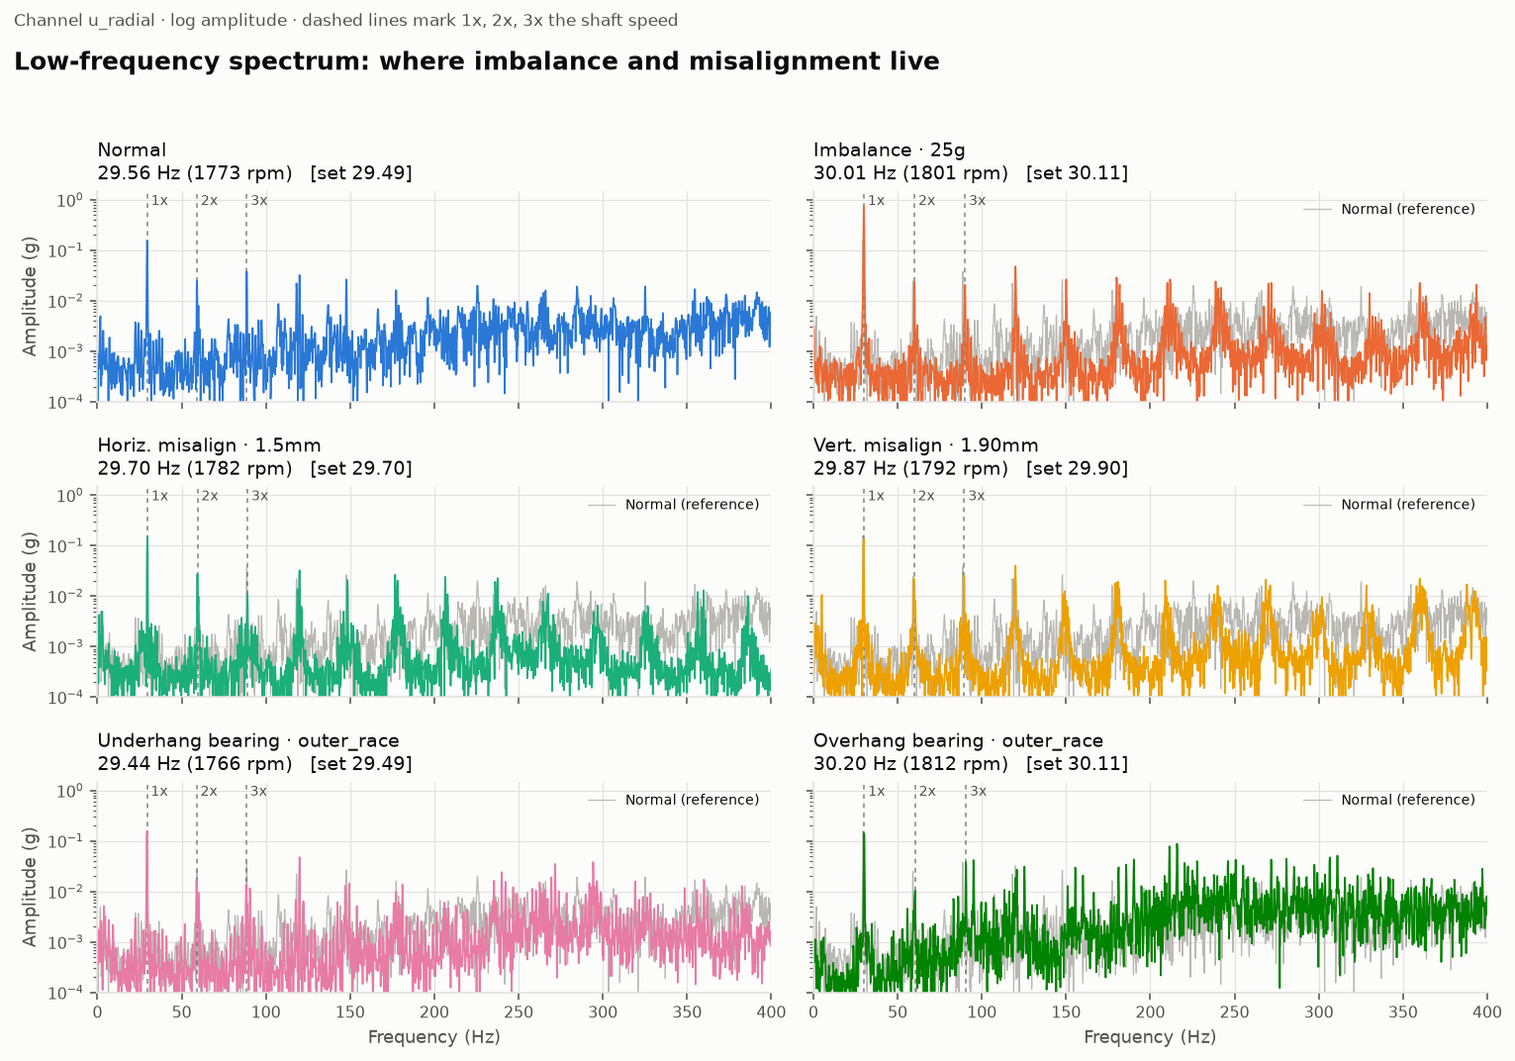
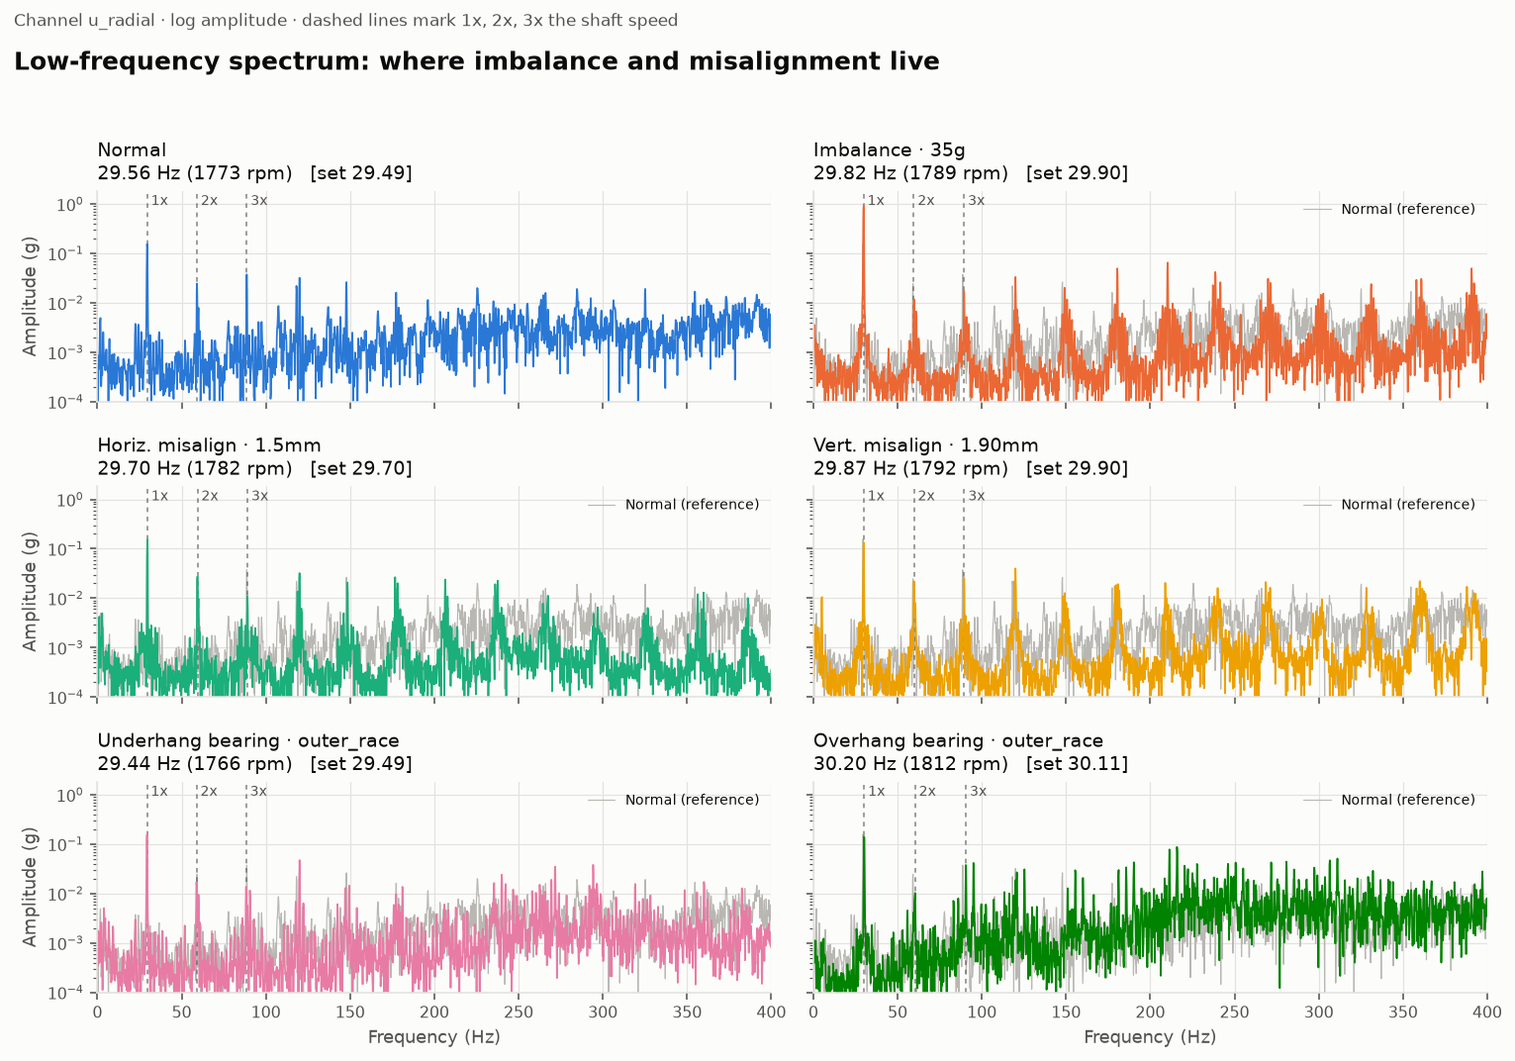
fix(eda): pin the imbalance mass and correct the misalignment claim
## มวลถ่วงของ imbalance ในรูป 01-02 ไม่คงที่

รูป 01 กับ 02 เลือกไฟล์ imbalance จากทุกมวลโดยดูแค่ว่าความเร็วใกล้เป้าหมาย
ที่สุด ทำให้ไฟล์ที่ได้เปลี่ยนไปมาทุกครั้งที่เกณฑ์การจับคู่ความเร็วขยับ
เคยได้ 35g แล้วเป็น 20g แล้วเป็น 25g ขณะที่ README ยังเขียน 35 g ค้างไว้

ตรึงไว้ที่ IMBALANCE_MASS_G = 35 ซึ่งเป็นมวลสูงสุดและเป็นเคสที่เห็นผลชัด
ที่สุดในสัญญาณดิบ

## ข้ออ้างเรื่อง misalignment ใน README ผิด

README เขียนว่า misalignment ทำให้ 2x กับ 3x โผล่ชัดขึ้น ตรวจด้วยตัวเลขจริง
จากคลาสละ 10 ไฟล์แล้วไม่เป็นแบบนั้น บนช่อง u_radial ทุกค่าอยู่ที่ 0.8-1.0
เท่าของ normal คือแยกไม่ได้เลย

สาเหตุคือใช้ช่องผิด เพลาที่เยื้องศูนย์ถูกดัดสองครั้งต่อรอบ แรงจึงออกมาทาง
แนวสัมผัสของฝั่งปลายเพลา วัดอัตราส่วน 2x/1x บนช่อง o_tang แล้วได้

    imbalance 35 g            0.44  (ลดลง เพราะ 1x พุ่งขึ้น)
    horizontal-misalignment   2.18  (เพิ่มขึ้น)
    vertical-misalignment     5.36  (เพิ่มขึ้นมาก)
    underhang bearing 0 g     1.07
    overhang bearing 0 g      3.01

imbalance กับ misalignment ดันอัตราส่วนนี้ไปคนละทาง จึงแยกสองคลาสนี้ได้ด้วย
feature ตัวเดียว ส่วน overhang bearing ก็ดันขึ้น 3.01 เท่าเหมือนกัน ต้องดูคู่
กับ envelope floor เพื่อแยกออก

พบอีกว่า u_tang เป็นช่องที่ดีที่สุดสำหรับ imbalance (12.06 เท่า) ไม่ใช่
u_radial (7.94 เท่า) ที่ใช้อยู่

## ที่แก้

- IMBALANCE_MASS_G ใน make_eda_report.py แล้วสร้างรูปใหม่
- README: ใส่ตารางตัวเลขจริงแทนคำบรรยายที่กะจากรูป ทั้งรูป 01 และ 02
  พร้อมตารางอัตราส่วน 2x/1x แยกตามช่อง และเตือนว่ารูป 01-05 ใช้ u_radial
[…]

diff --git a/src/viz/make_eda_report.py b/src/viz/make_eda_report.py
@@ -56,6 +56,12 @@ BEARING_MARKS = ["FTF", "BSF", "BPFO"]
 # ใช้เป็นค่าประมาณสำรองเมื่อ tachometer ของไฟล์นั้นวัดไม่ผ่านเกณฑ์
 SLIP_RATIO = 0.9767
 
+# มวลถ่วงของ imbalance ที่ใช้เป็นตัวแทนคลาสในรูปที่ 01, 02
+# ตรึงไว้เพื่อให้รูปซ้ำได้ เลือก 35 g ซึ่งเป็นค่าสูงสุด เพราะเป็นเคสที่เห็นผล
+# ชัดที่สุดในสัญญาณดิบ ข้อควรรู้: กลุ่ม 35 g มีข้อมูลถึงแค่ 56.7 Hz
+# ถ้าสั่ง --target-hz สูงกว่านั้นจะได้ไฟล์ที่ความเร็วห่างจากเป้าหมาย
+IMBALANCE_MASS_G = 35
+
 
 def _rot(row: pd.Series) -> float:
     """ความเร็วรอบที่ควรใช้คำนวณความถี่ความเสียหาย
@@ -82,12 +88,20 @@ def _panel_title(row: pd.Series) -> str:
 
 
 def _select_one_per_class(index: pd.DataFrame, target_hz: float) -> dict[str, pd.Series]:
-    """เลือกไฟล์ตัวแทนคลาสละหนึ่งไฟล์ ที่ความเร็วใกล้เป้าหมายที่สุด"""
+    """เลือกไฟล์ตัวแทนคลาสละหนึ่งไฟล์ ที่ความเร็วใกล้เป้าหมายที่สุด
+
+    **ต้องตรึงมวลถ่วงของ imbalance ไว้ด้วย** ไม่ใช่ปล่อยให้เลือกจากทุกมวล
+    ไม่งั้นไฟล์ที่ถูกเลือกจะเปลี่ยนไปมาทุกครั้งที่เกณฑ์การจับคู่ความเร็วขยับ
+    (เคยได้ 35g แล้วเป็น 20g แล้วเป็น 25g มาแล้ว) ซึ่งทำให้คำอธิบายในรายงาน
+    ไม่ตรงกับรูปโดยไม่มีใครรู้ตัว
+    """
     picks = {}
     for cls in mf.CLASS_ORDER:
         # bearing fault เอาเฉพาะ 0 g เพื่อไม่ให้ imbalance ปนเข้ามา
         mass = 0 if cls in ("underhang", "overhang") else None
         sub = "outer_race" if cls in ("underhang", "overhang") else None
+        if cls == "imbalance":
+            mass = IMBALANCE_MASS_G
         picks[cls] = mf.pick_matched_speed(index, target_hz, cls, subclass=sub, mass_g=mass)
     return picks
 

diff --git a/reports/eda/README.md b/reports/eda/README.md
@@ -22,12 +22,15 @@
 
 จำสี่บรรทัดนี้ได้ก็อ่านกราฟทุกใบในโฟลเดอร์นี้ออก
 
-| ความเสียหาย | ลายเซ็น | เห็นได้จากรูป |
-|---|---|---|
-| **Imbalance** | พีคเดี่ยวสูงที่ **1×** + band kurtosis สูง | 01, 02, 06 |
-| **Misalignment** | **2×, 3×** และฮาร์มอนิกเรียงเป็นชุด | 02 |
-| **Outer race / Ball fault** | **พื้นสัญญาณยกขึ้นทั้งย่าน** + envelope floor สูง | 02, 03, 06 |
-| **Cage fault** | **ยังไม่มีลายเซ็นที่จับได้เลย** | 03, 06 |
+| ความเสียหาย | ลายเซ็น | ช่องที่ควรใช้ | เห็นได้จากรูป |
+|---|---|---|---|
+| **Imbalance** | พีค **1×** สูง 8 เท่า + อัตราส่วน 2×/1× **ลดลง** | `u_tang`, `o_tang` | 01, 02, 06 |
+| **Misalignment** | อัตราส่วน **2×/1× เพิ่มขึ้น 2–5 เท่า** | **`o_tang` เท่านั้น** | ดูตาราง §02 |
+| **Outer race / Ball fault** | **พื้นสัญญาณยกขึ้นทั้งย่าน** + envelope floor สูง | `u_radial`, `o_tang` | 02, 03, 06 |
+| **Cage fault** | **ยังไม่มีลายเซ็นที่จับได้เลย** | — | 03, 06 |
+
+⚠ **ช่องเซ็นเซอร์สำคัญพอๆ กับ feature** กราฟ 01–05 ใช้ `u_radial` ทั้งหมด ซึ่ง
+**มองไม่เห็น misalignment เลย** ต้องดู `o_tang` ถึงจะเห็น ดูตัวเลขในหัวข้อ 02
 
 **กลไกสองแบบที่ต่างกันโดยสิ้นเชิง** ที่ต้องแยกให้ออกคือ
 
@@ -92,12 +95,21 @@
 
 **สิ่งที่เห็น**
 
-| คลาส | ลักษณะ |
-|---|---|
-| Normal | สัญญาณรบกวนสม่ำเสมอ ±1 g มองไม่เห็นคาบชัดเจน |
-| **Imbalance 35 g** | **เห็นคลื่นไซน์ชัดด้วยตาเปล่า** ±2 g คาบราว 33 ms ตรงกับ 30 Hz พอดี |
-| Misalignment ทั้งสองแบบ | แทบทับกับเส้นเทา แยกด้วยตาเปล่าไม่ออก |
-| Bearing fault ทั้งสองฝั่ง | **แทบทับกับเส้นเทาเช่นกัน** |
+| คลาส | ความสูงยอดถึงยอด | ลักษณะ |
+|---|---:|---|
+| Normal | 2.70 g | สัญญาณรบกวนสม่ำเสมอ **มองไม่เห็นคาบเลย** |
+| **Imbalance 35 g** | **4.50 g** | **เห็นคลื่นไซน์ชัดด้วยตาเปล่า** คาบราว 33 ms = 1 รอบการหมุนพอดี |
+| Horiz. misalign 1.5 mm | 2.11 g | แทบทับกับเส้นเทา แยกด้วยตาเปล่าไม่ออก |
+| Vert. misalign 1.90 mm | 3.15 g | แทบทับกับเส้นเทา แยกด้วยตาเปล่าไม่ออก |
+| Underhang outer race 0 g | 3.27 g | ทับกับเส้นเทา แต่มี**หนามแหลมโดดๆ** แทงขึ้นเป็นครั้งคราว |
+| Overhang outer race 0 g | 2.79 g | ทับกับเส้นเทา แต่มี**หนามแหลมโดดๆ** เช่นกัน |
+
+หนามแหลมที่โผล่ในสองแถวล่างคือ**แรงกระแทกตอนลูกปืนกลิ้งผ่านรอยแตก** แต่มันจมอยู่ใน noise
+จนตั้ง threshold ที่ค่าสูงสุดแล้วจับไม่ได้ — ต้องใช้ envelope analysis ในรูปที่ 03 ถึงจะดึงออกมาได้
+
+> ⚠ **imbalance ในรูปนี้ตรึงไว้ที่ 35 g เสมอ** ถ้าปล่อยให้เลือกจากทุกมวล ไฟล์ที่ได้
+> จะเปลี่ยนไปมาทุกครั้งที่เกณฑ์การจับคู่ความเร็วขยับ แล้วคำอธิบายจะไม่ตรงกับรูป
+> ตั้งค่าได้ที่ `IMBALANCE_MASS_G` ใน `src/viz/make_eda_report.py`
 
 **บทเรียนข้อแรกของโปรเจกต์นี้อยู่ตรงนี้** ในบรรดาความเสียหาย 5 แบบ มีแค่ imbalance
 ที่หนักถึง 35 g เท่านั้นที่ดูสัญญาณดิบแล้วรู้ ที่เหลือมองไม่ออกเลย
@@ -115,17 +127,53 @@
 
 แกน y เป็น log เพื่อให้เห็นทั้งพีคใหญ่และพีคเล็กในรูปเดียว เส้นประบอกตำแหน่ง 1×, 2×, 3× ของความเร็วรอบ
 
-**สิ่งที่เห็น**
+**สิ่งที่เห็นในรูป (ช่อง `u_radial`)**
 
-- **Normal** พีคที่ 1× สูงราว 0.17 g มี 2× เล็กน้อย พื้นราบเรียบ
-- **Imbalance** พีคที่ 1× พุ่งไปราว **1.0 g เกือบ 6 เท่าของ normal** นี่คือลายเซ็นตำราของ imbalance
+วัดจริงจากคลาสละ 10 ไฟล์ คุมความเร็ว 24–36 Hz เทียบเป็น**เท่าของ normal**
+
+| คลาส | 1× | 2× | 3× | ระดับพื้น | พลังงาน 150–400 Hz |
+|---|---:|---:|---:|---:|---:|
+| normal | 1.00 | 1.00 | 1.00 | 1.00 | 1.00 |
+| **imbalance 35 g** | **7.94** | 1.40 | 0.57 | 0.52 | 1.44 |
+| horizontal-misalign | 0.98 | 0.95 | 0.56 | 0.39 | 0.66 |
+| vertical-misalign | 0.99 | 0.81 | 0.72 | 0.39 | 0.84 |
+| underhang bearing 0 g | 1.11 | 0.77 | 0.61 | 0.61 | 0.94 |
+| **overhang bearing 0 g** | 1.14 | 0.40 | 0.42 | **1.44** | **2.35** |
+
+- **Imbalance** พีคที่ 1× พุ่งไป **8 เท่าของ normal** เป็นลายเซ็นที่ชัดที่สุดในชุดนี้
   เพราะมวลที่ไม่สมดุลหมุนครบรอบหนึ่งก็เหวี่ยงหนึ่งครั้งพอดี
-- **Misalignment** 1× ไม่ต่างจาก normal มาก แต่ **2× กับ 3× โผล่ชัดขึ้น** และมีฮาร์มอนิกไล่ขึ้นไปเป็นชุด
-  เพราะเพลาที่เยื้องศูนย์ถูกดัดสองครั้งต่อรอบ
-- **Bearing fault ที่ 0 g** ย่านต่ำ**แทบไม่ต่างจาก normal เลย** แต่ฝั่ง overhang
-  พื้นสัญญาณย่าน 150–400 Hz ยกตัวขึ้นทั้งแถบ
+- **Overhang bearing** ไม่มีพีคเด่น แต่**ระดับพื้นยกขึ้น 1.44 เท่า และพลังงานย่าน
+  150–400 Hz ขึ้น 2.35 เท่า** เพราะการกระแทกกระจายพลังงานไปทั่วทุกความถี่
+- ⚠ **Misalignment ทั้งสองแบบแยกจาก normal ไม่ได้เลยในช่องนี้** ทุกตัวเลขอยู่ที่ 0.8–1.0
+  **ที่เคยเขียนไว้ว่า "2× กับ 3× โผล่ชัดขึ้น" ไม่ถูกต้อง** ตรวจด้วยตัวเลขจริงแล้วไม่เป็นแบบนั้น
+- ⚠ **Underhang bearing ก็แยกไม่ได้เช่นกัน** ในย่านความถี่ต่ำ
 
-**ข้อสรุป: ย่านต่ำแยก imbalance กับ misalignment ได้ แต่แยก bearing fault ไม่ได้**
+### misalignment ต้องดูช่อง `o_tang` และดูที่อัตราส่วน 2×/1×
+
+สาเหตุที่รูปนี้มองไม่เห็น misalignment คือ**ใช้ช่องผิด** เพลาที่เยื้องศูนย์ถูกดัดสองครั้ง
+ต่อรอบ แรงจึงออกมาทางแนวสัมผัสของฝั่งปลายเพลา ไม่ใช่แนวรัศมีฝั่งมอเตอร์
+
+**อัตราส่วน 2×/1×** เทียบเป็นเท่าของ normal ในช่องเดียวกัน (คลาสละ 8 ไฟล์)
+
+| คลาส | `u_axial` | `u_radial` | `u_tang` | `o_axial` | **`o_tang`** |
+|---|---:|---:|---:|---:|---:|
+| normal | 1.00 | 1.00 | 1.00 | 1.00 | **1.00** |
+| imbalance 35 g | 0.94 | 0.16 | 0.76 | 0.11 | **0.44** ↓ |
+| horizontal-misalign | 0.68 | 0.86 | 1.20 | 0.63 | **2.18** ↑ |
+| **vertical-misalign** | 0.48 | 0.77 | 1.49 | 1.10 | **5.36** ↑↑ |
+| underhang bearing | 1.96 | 0.71 | 1.37 | 0.67 | **1.07** |
+| overhang bearing | 0.98 | 0.37 | 2.65 | 0.31 | **3.01** ↑ |
+
+**นี่คือลายเซ็นตำราของ misalignment ที่หาไม่เจอในรูปที่ 02** และสังเกตว่า
+**imbalance กับ misalignment ดันอัตราส่วนนี้ไปคนละทาง** — imbalance ทำให้ลดลง (0.44)
+เพราะ 1× พุ่งขึ้น ส่วน misalignment ทำให้เพิ่มขึ้น (2.18 และ 5.36) เพราะ 2× พุ่งขึ้น
+จึงเป็น feature ที่แยกสองคลาสนี้ออกจากกันได้ด้วยตัวเดียว
+
+⚠ แต่ **overhang bearing ก็ดันอัตราส่วนนี้ขึ้น 3.01 เท่าเหมือนกัน** จึงใช้ตัวเดียวไม่พอ
+ต้องดูคู่กับ envelope floor ในรูปที่ 06 ซึ่งแยก overhang ออกได้
+
+**ข้อสรุป: ย่านต่ำบนช่อง `u_radial` แยกได้แค่ imbalance และ overhang bearing
+ส่วน misalignment ต้องย้ายไปดู 2×/1× บนช่อง `o_tang`**
 
 ---
 

diff --git a/CLAUDE.md b/CLAUDE.md
@@ -286,6 +286,38 @@ def envelope_spectrum(sig, fs, lo=2000, hi=5000):
 
 **imbalance อยู่ย่านต่ำ (1× รอบหมุน) ส่วน bearing fault อยู่ย่านสูง (2-5 kHz)** — ไม่ทับกัน จึงแยกออกจากกันได้
 
+### ⚠ เลือกช่องเซ็นเซอร์ให้ตรงกับความเสียหาย — สำคัญพอๆ กับเลือก feature
+
+วัดจากคลาสละ 8–10 ไฟล์ คุมความเร็ว 24–36 Hz bearing ใช้ 0 g imbalance ใช้ 35 g
+ตัวเลขเทียบเป็น**เท่าของ normal ในช่องเดียวกัน**
+
+**ความสูงของพีคที่ 1×**
+
+| คลาส | `u_axial` | `u_radial` | `u_tang` | `o_axial` | `o_tang` |
+|---|---:|---:|---:|---:|---:|
+| imbalance 35 g | 2.84 | 7.94 | **12.06** | 1.97 | 11.26 |
+| misalignment ทั้งสองแบบ | ~1.0 | ~1.0 | ~1.0 | 0.2–1.3 | 0.9–1.3 |
+
+**อัตราส่วน 2×/1×** ← ตัวที่แยก misalignment ได้
+
+| คลาส | `u_radial` | `u_tang` | **`o_tang`** |
+|---|---:|---:|---:|
+| imbalance 35 g | 0.16 | 0.76 | **0.44** ↓ |
+| horizontal-misalignment | 0.86 | 1.20 | **2.18** ↑ |
+| vertical-misalignment | 0.77 | 1.49 | **5.36** ↑↑ |
+| underhang bearing 0 g | 0.71 | 1.37 | **1.07** |
+| overhang bearing 0 g | 0.37 | 2.65 | **3.01** ↑ |
+
+**ข้อสรุปที่ต้องจำ**
+
+1. **`u_radial` มองไม่เห็น misalignment เลย** ทุกตัวเลขอยู่ที่ 0.8–1.0 กราฟ EDA รูป 01–05
+   ใช้ช่องนี้ทั้งหมด จึงสรุปเรื่อง misalignment จากรูปพวกนั้นไม่ได้
+2. **`o_tang` คือช่องที่ต้องใช้กับ misalignment** และ **feature ที่ใช้คืออัตราส่วน 2×/1× ไม่ใช่ความสูงของพีค**
+3. **imbalance กับ misalignment ดันอัตราส่วนนี้ไปคนละทาง** — imbalance ทำให้ลด (1× พุ่งขึ้น)
+   misalignment ทำให้เพิ่ม (2× พุ่งขึ้น) จึงแยกสองคลาสนี้ได้ด้วย feature ตัวเดียว
+4. **`u_tang` คือช่องที่ดีที่สุดสำหรับ imbalance** (12.06 เท่า) ไม่ใช่ `u_radial` (7.94 เท่า)
+5. ⚠ overhang bearing ก็ดันอัตราส่วน 2×/1× ขึ้น 3.01 เท่า ต้องดูคู่กับ envelope floor เพื่อแยกออก
+
 ### ⚠ กับดักที่ต้องระวังที่สุด: imbalance ปนใน bearing fault
 
 เอกสารต้นทางระบุว่า **ความเสียหายตลับลูกปืนแทบมองไม่เห็นเมื่อไม่มี imbalance** ผู้จัดทำจึงเติมมวลถ่วง 6/20/35 g เพื่อขยายสัญญาณ แต่ยังมีเคส **0 g** บันทึกไว้ด้วย
@@ -476,7 +508,8 @@ git repo, โครงสร้างโฟลเดอร์, `venv/`, `config.
 สร้างใหม่ได้ด้วย `python src/viz/make_eda_report.py --target-hz 30`
 
 2. ✅ พล็อตสัญญาณดิบ — **imbalance 35 g เห็นคลื่นไซน์ด้วยตาเปล่า ที่เหลือมองไม่ออกเลย**
-3. ✅ FFT ธรรมดา — แยก imbalance (1× สูง 6 เท่า) และ misalignment (2×, 3× เด่น) ได้ แต่ bearing fault ที่ 0 g **ย่านต่ำแทบไม่ต่างจาก normal**
+3. ✅ FFT ธรรมดา — แยก **imbalance** (1× สูง **8 เท่า**) และ **overhang bearing** (พื้นยก 1.44 เท่า, พลังงาน 150–400 Hz ขึ้น 2.35 เท่า) ได้
+   ⚠ แต่ **misalignment แยกไม่ได้เลยบนช่อง `u_radial`** ต้องย้ายไปดู **อัตราส่วน 2×/1× บนช่อง `o_tang`** (ดูหัวข้อ 5)
 4. ✅ envelope analysis — เห็น peak ที่ BSF และ FTF ตามทฤษฎี แต่เจอข้อจำกัดใหญ่เรื่อง **BPFO ทับฮาร์มอนิกที่ 3** (ดูหัวข้อ 4)
 5. ✅ RMS / kurtosis / crest factor — kurtosis แยก overhang bearing ได้ดีสุด (3.74 vs normal 2.72)
 6. ⬜ ทดลองแบ่ง train/test สองแบบ (random shuffle vs แบ่งตามเงื่อนไข) → **เห็น data leakage ด้วยตาตัวเอง**
